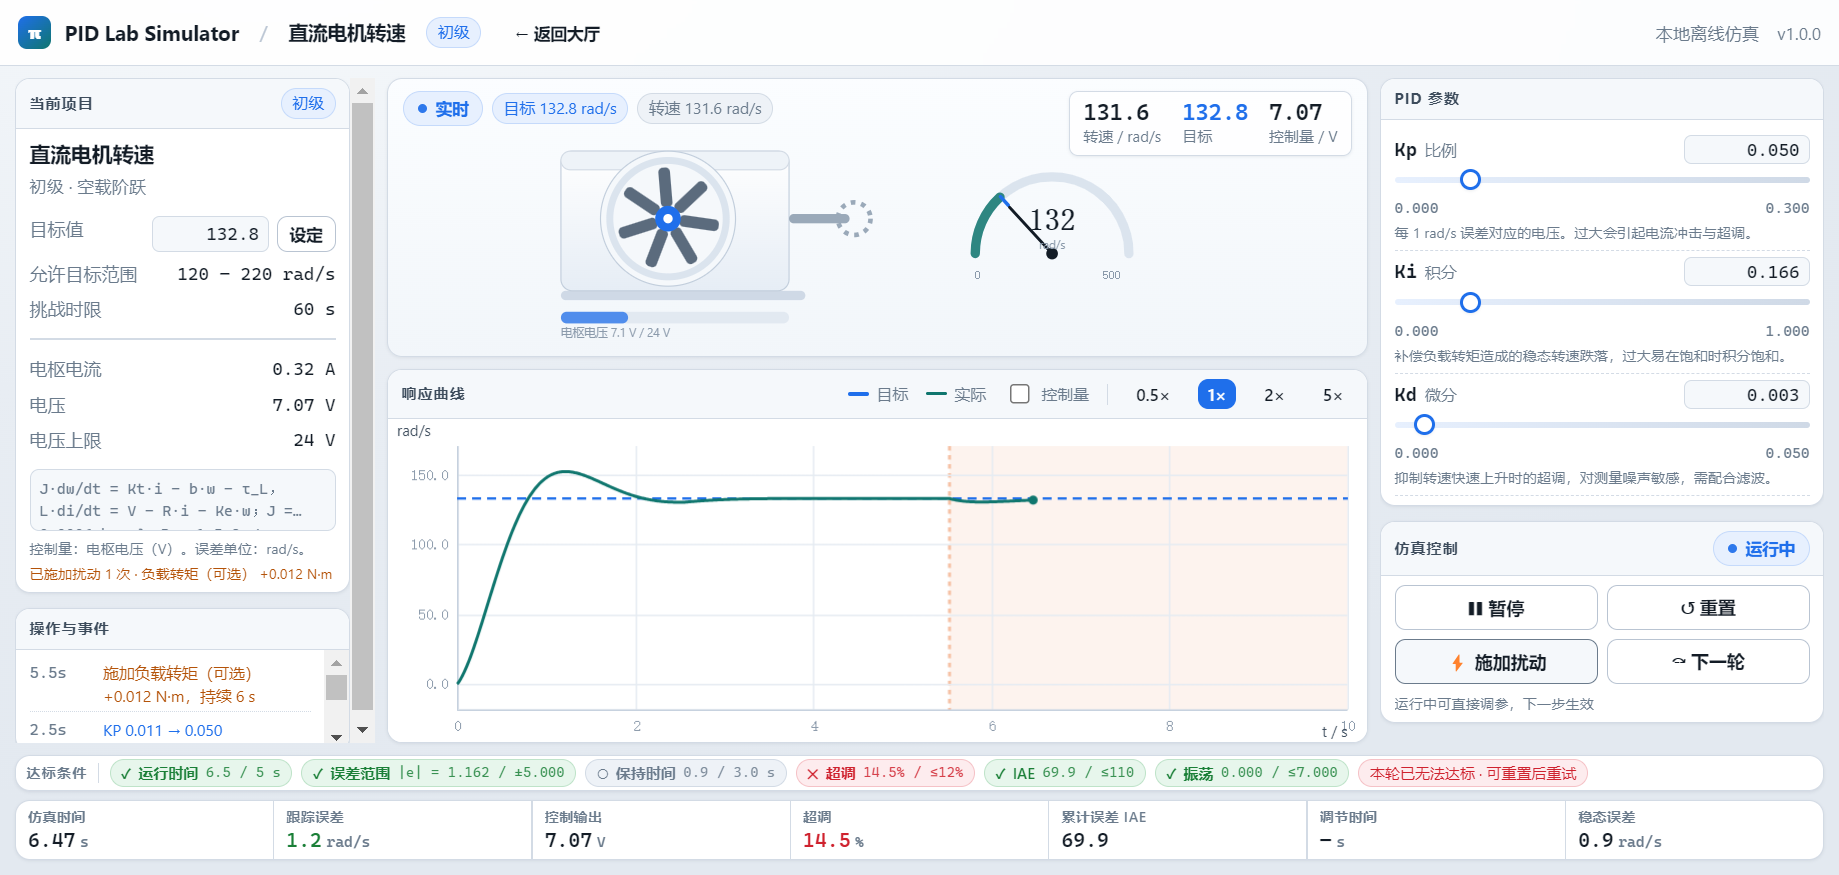
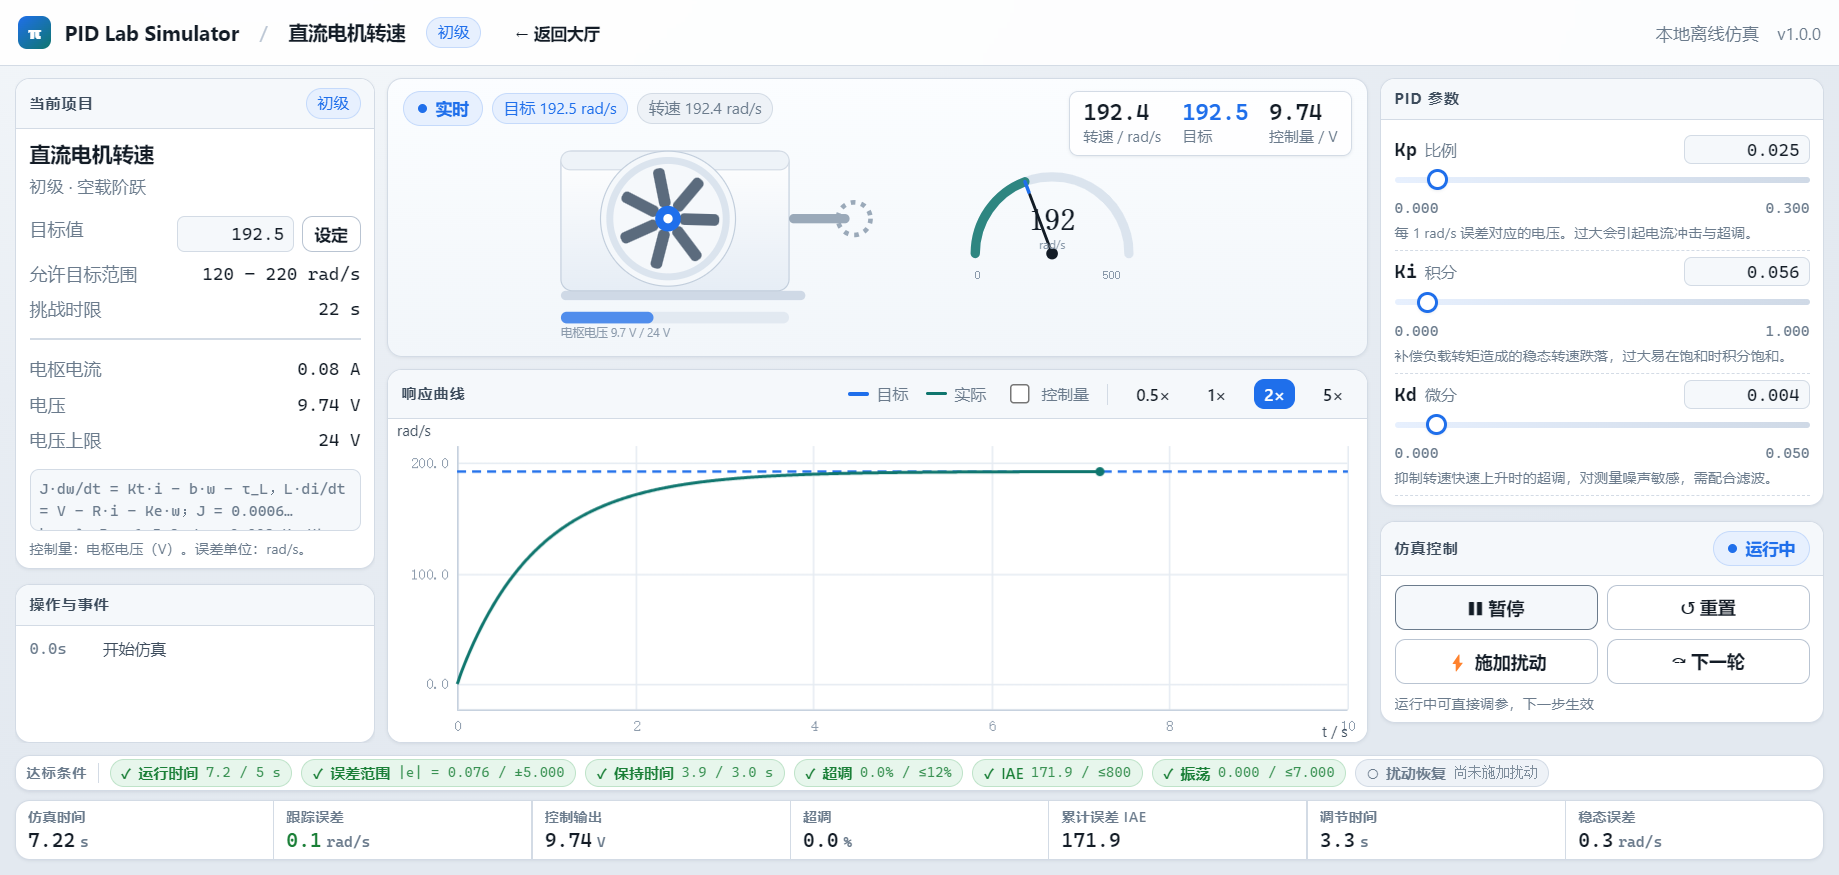
docs: 用最新代码重拍截图；修正 .gitignore 漏掉打包目录
- 旧安装包（17:42 构建）仍是判据修复前的版本：电机初级 60 s、无扰动项。已用当前源码
  重新打包到 release-final（82 MB），并实机验证界面显示「挑战时限 22 s」与「扰动恢复」
  条件，确认产物与源码一致。
- docs/images：重拍大厅、电机（7 s 内稳定、条件全绿）、温度、平衡车；删除不用的倒立摆截图。
- .gitignore：`release/`、`release-nsis/`、`release-installer/` 三条分别枚举，新增
  release-final 时漏网，`git add -A` 曾把 350 MB 产物加入索引（已撤销并回收对象）。
  改为 `release*/` 通配，避免再犯。

diff --git a/docs/acceptance-tests.md b/docs/acceptance-tests.md
@@ -73,13 +73,15 @@ $ npm run build && node tests/e2e/electron-smoke.mjs
 $ npx electron-builder --dir
 → release/win-unpacked/                        （免安装目录，约 5 MB asar + Electron 运行时）
 
-$ npx electron-builder --win nsis -c.directories.output=release-installer
-→ release-installer/PID Lab Simulator Setup 1.0.0.exe   （79 MB，未签名，当前最新产物）
-→ release-installer/win-unpacked/PID Lab Simulator.exe  （已用 Playwright 启动验证）
+$ npx electron-builder --win nsis -c.directories.output=release-final
+→ release-final/PID Lab Simulator Setup 1.0.0.exe   （82 MB，未签名，当前最新产物）
+→ release-final/win-unpacked/PID Lab Simulator.exe  （已用 Playwright 启动验证）
 ```
 
 打包后的可执行文件已用 Playwright 直接启动验证：窗口标题 `PID Lab Simulator`，大厅渲染 5 张卡片
 （`artifacts/05-packaged.png`）。已验证开发模式（Vite dev server + Electron）同样可以加载 5 张卡片。
+打包产物与源码一致性检查：进入直流电机/初级，界面显示的「挑战时限 22 s」与达标条件中的
+「扰动恢复」项均来自最新代码（旧产物为 60 s、无扰动项）。
 
 ## 4. 性能实测
 

diff --git a/README.md b/README.md
@@ -23,6 +23,10 @@
 
 ![温度控制](docs/images/lab-temperature.png)
 
+不稳定对象同样跑在同一个内核上——平衡车的角度环每 10 ms 计算一次，跌倒即冻结并给出原因：
+
+![平衡小车](docs/images/lab-robot.png)
+
 达标后冻结本轮并给出真实性能，**不显示任何“标准答案”**：
 
 ![达标结果](docs/images/result-success.png)
@@ -39,6 +43,8 @@ npm run typecheck    # tsc --noEmit（strict）
 npm run build        # 生产构建（渲染层 + 主进程）
 npm run test:e2e     # 构建后驱动真实 Electron 窗口做端到端验收
 npm run dist         # electron-builder 打包（当前平台）
+# 已产出：release-final/PID Lab Simulator Setup 1.0.0.exe（82 MB，未签名）
+# 以及 release-final/win-unpacked/（免安装目录，已用 Playwright 启动验证）
 ```
 
 辅助脚本（开发期校准用，不会打进应用）：
